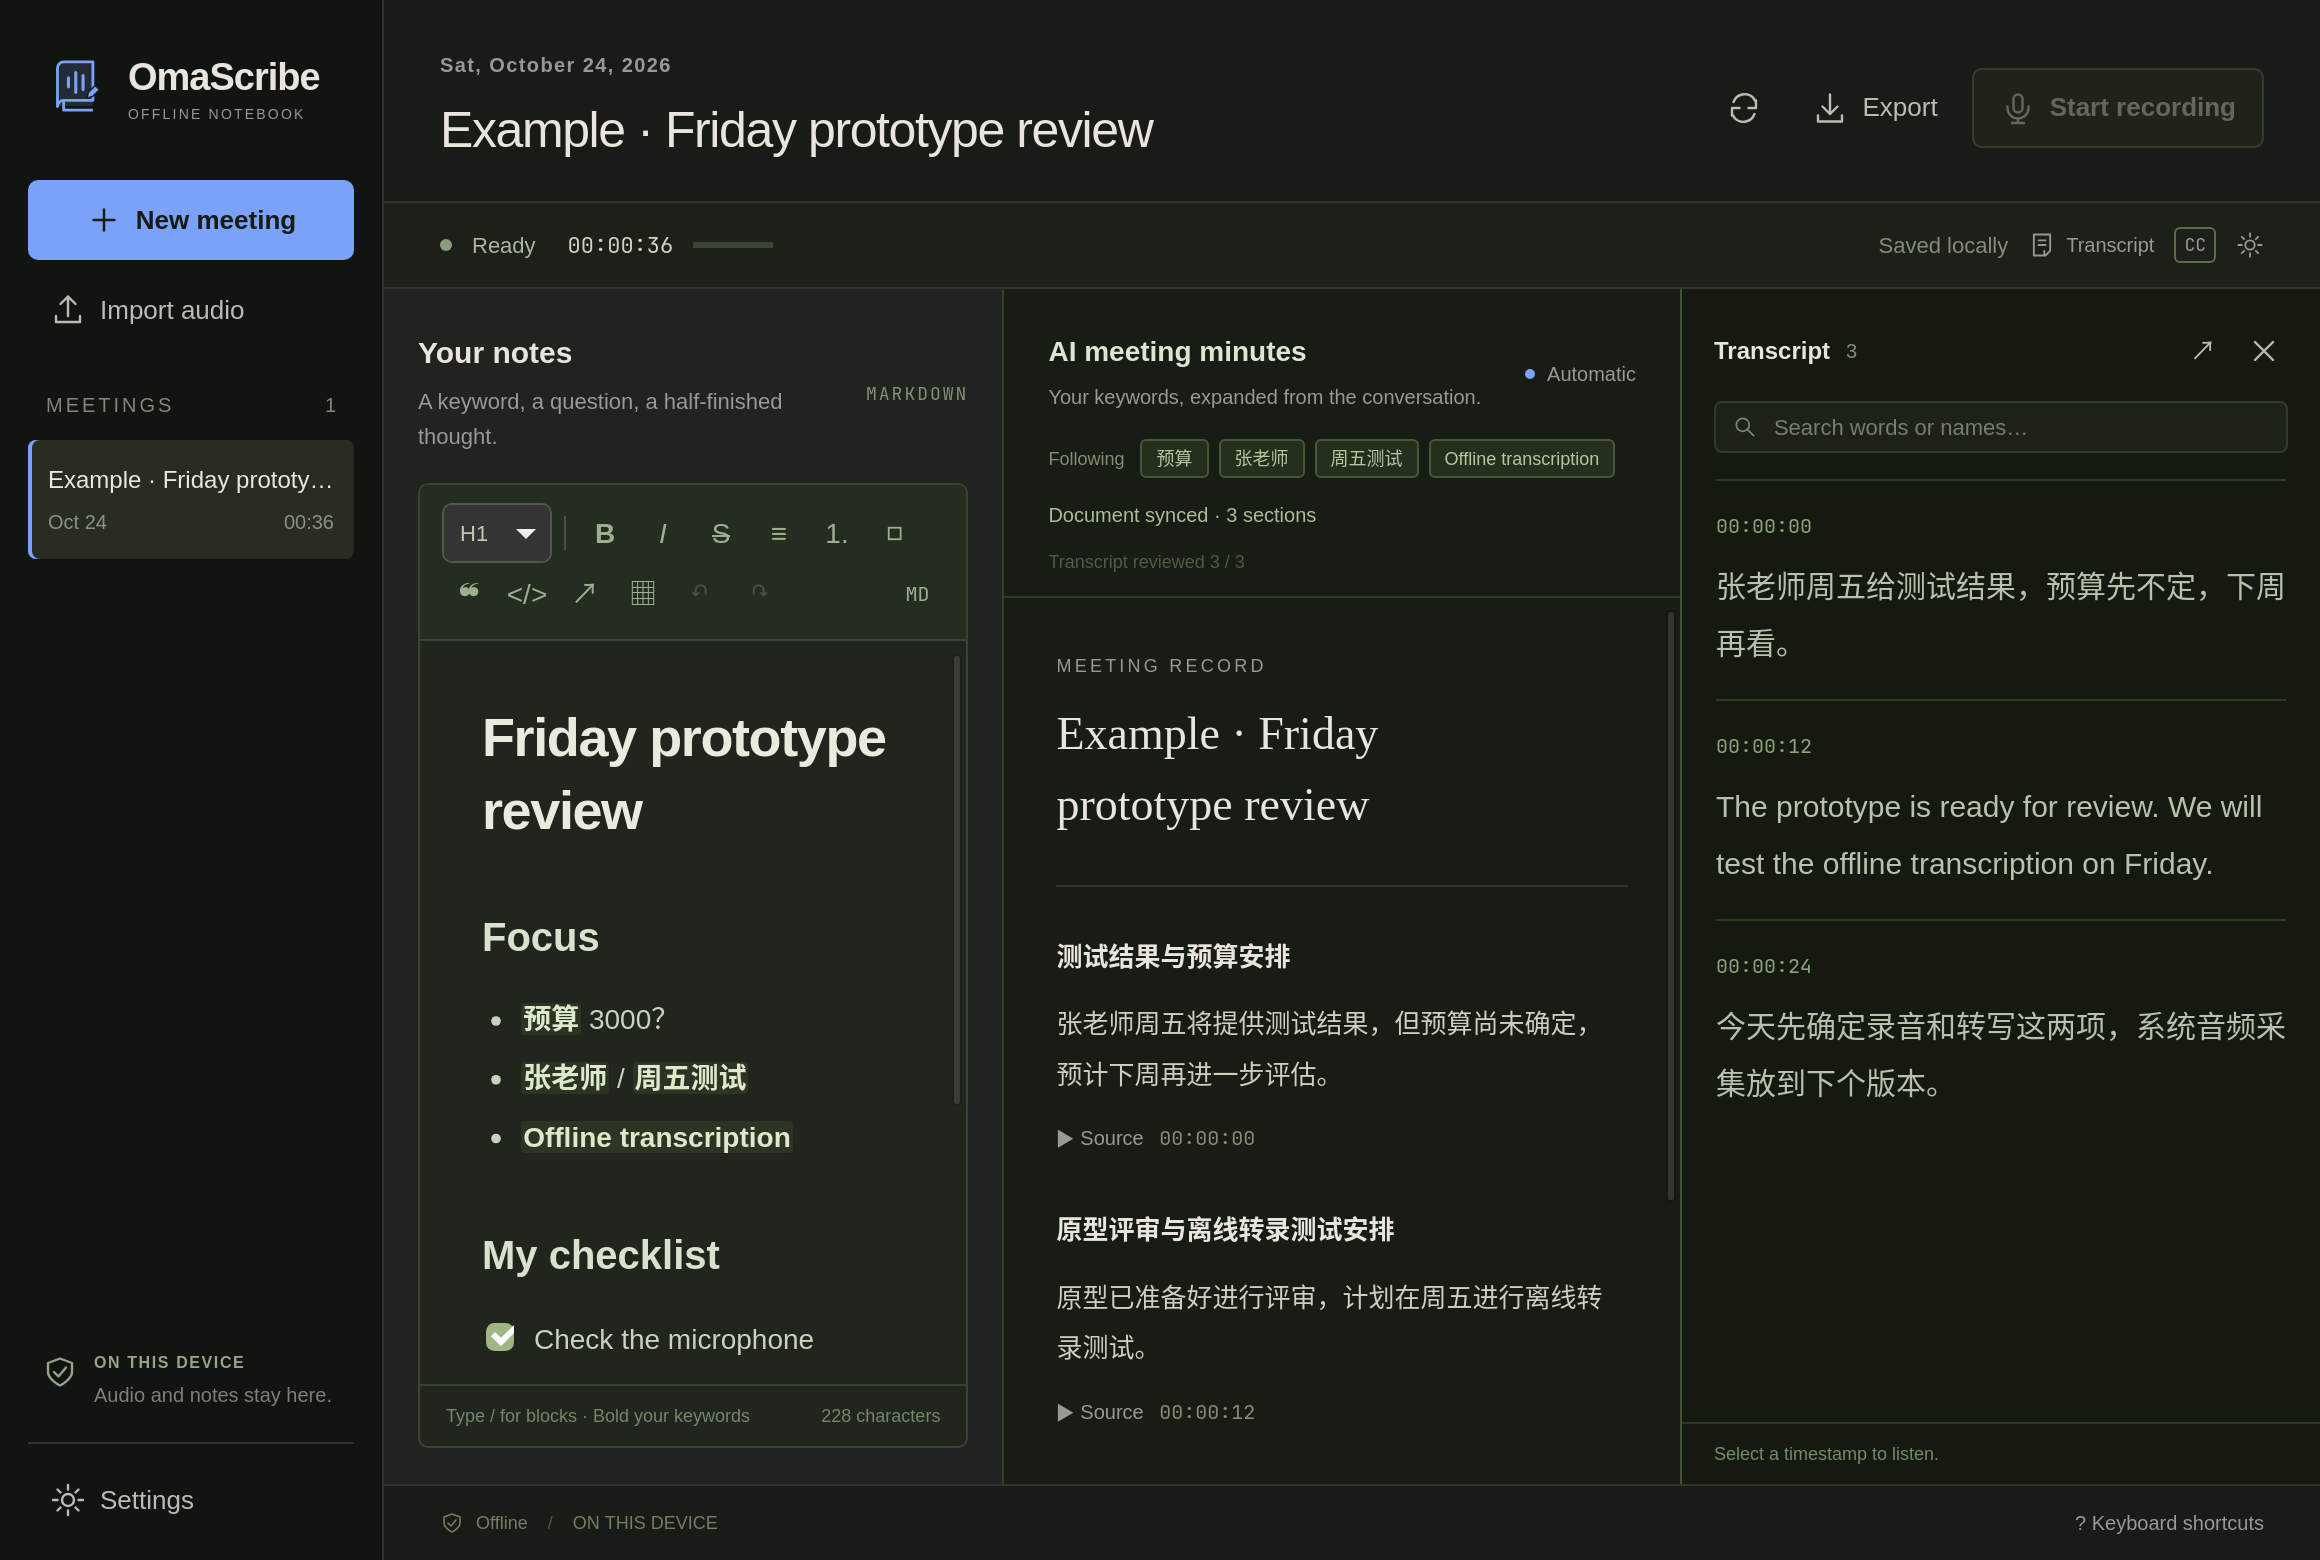
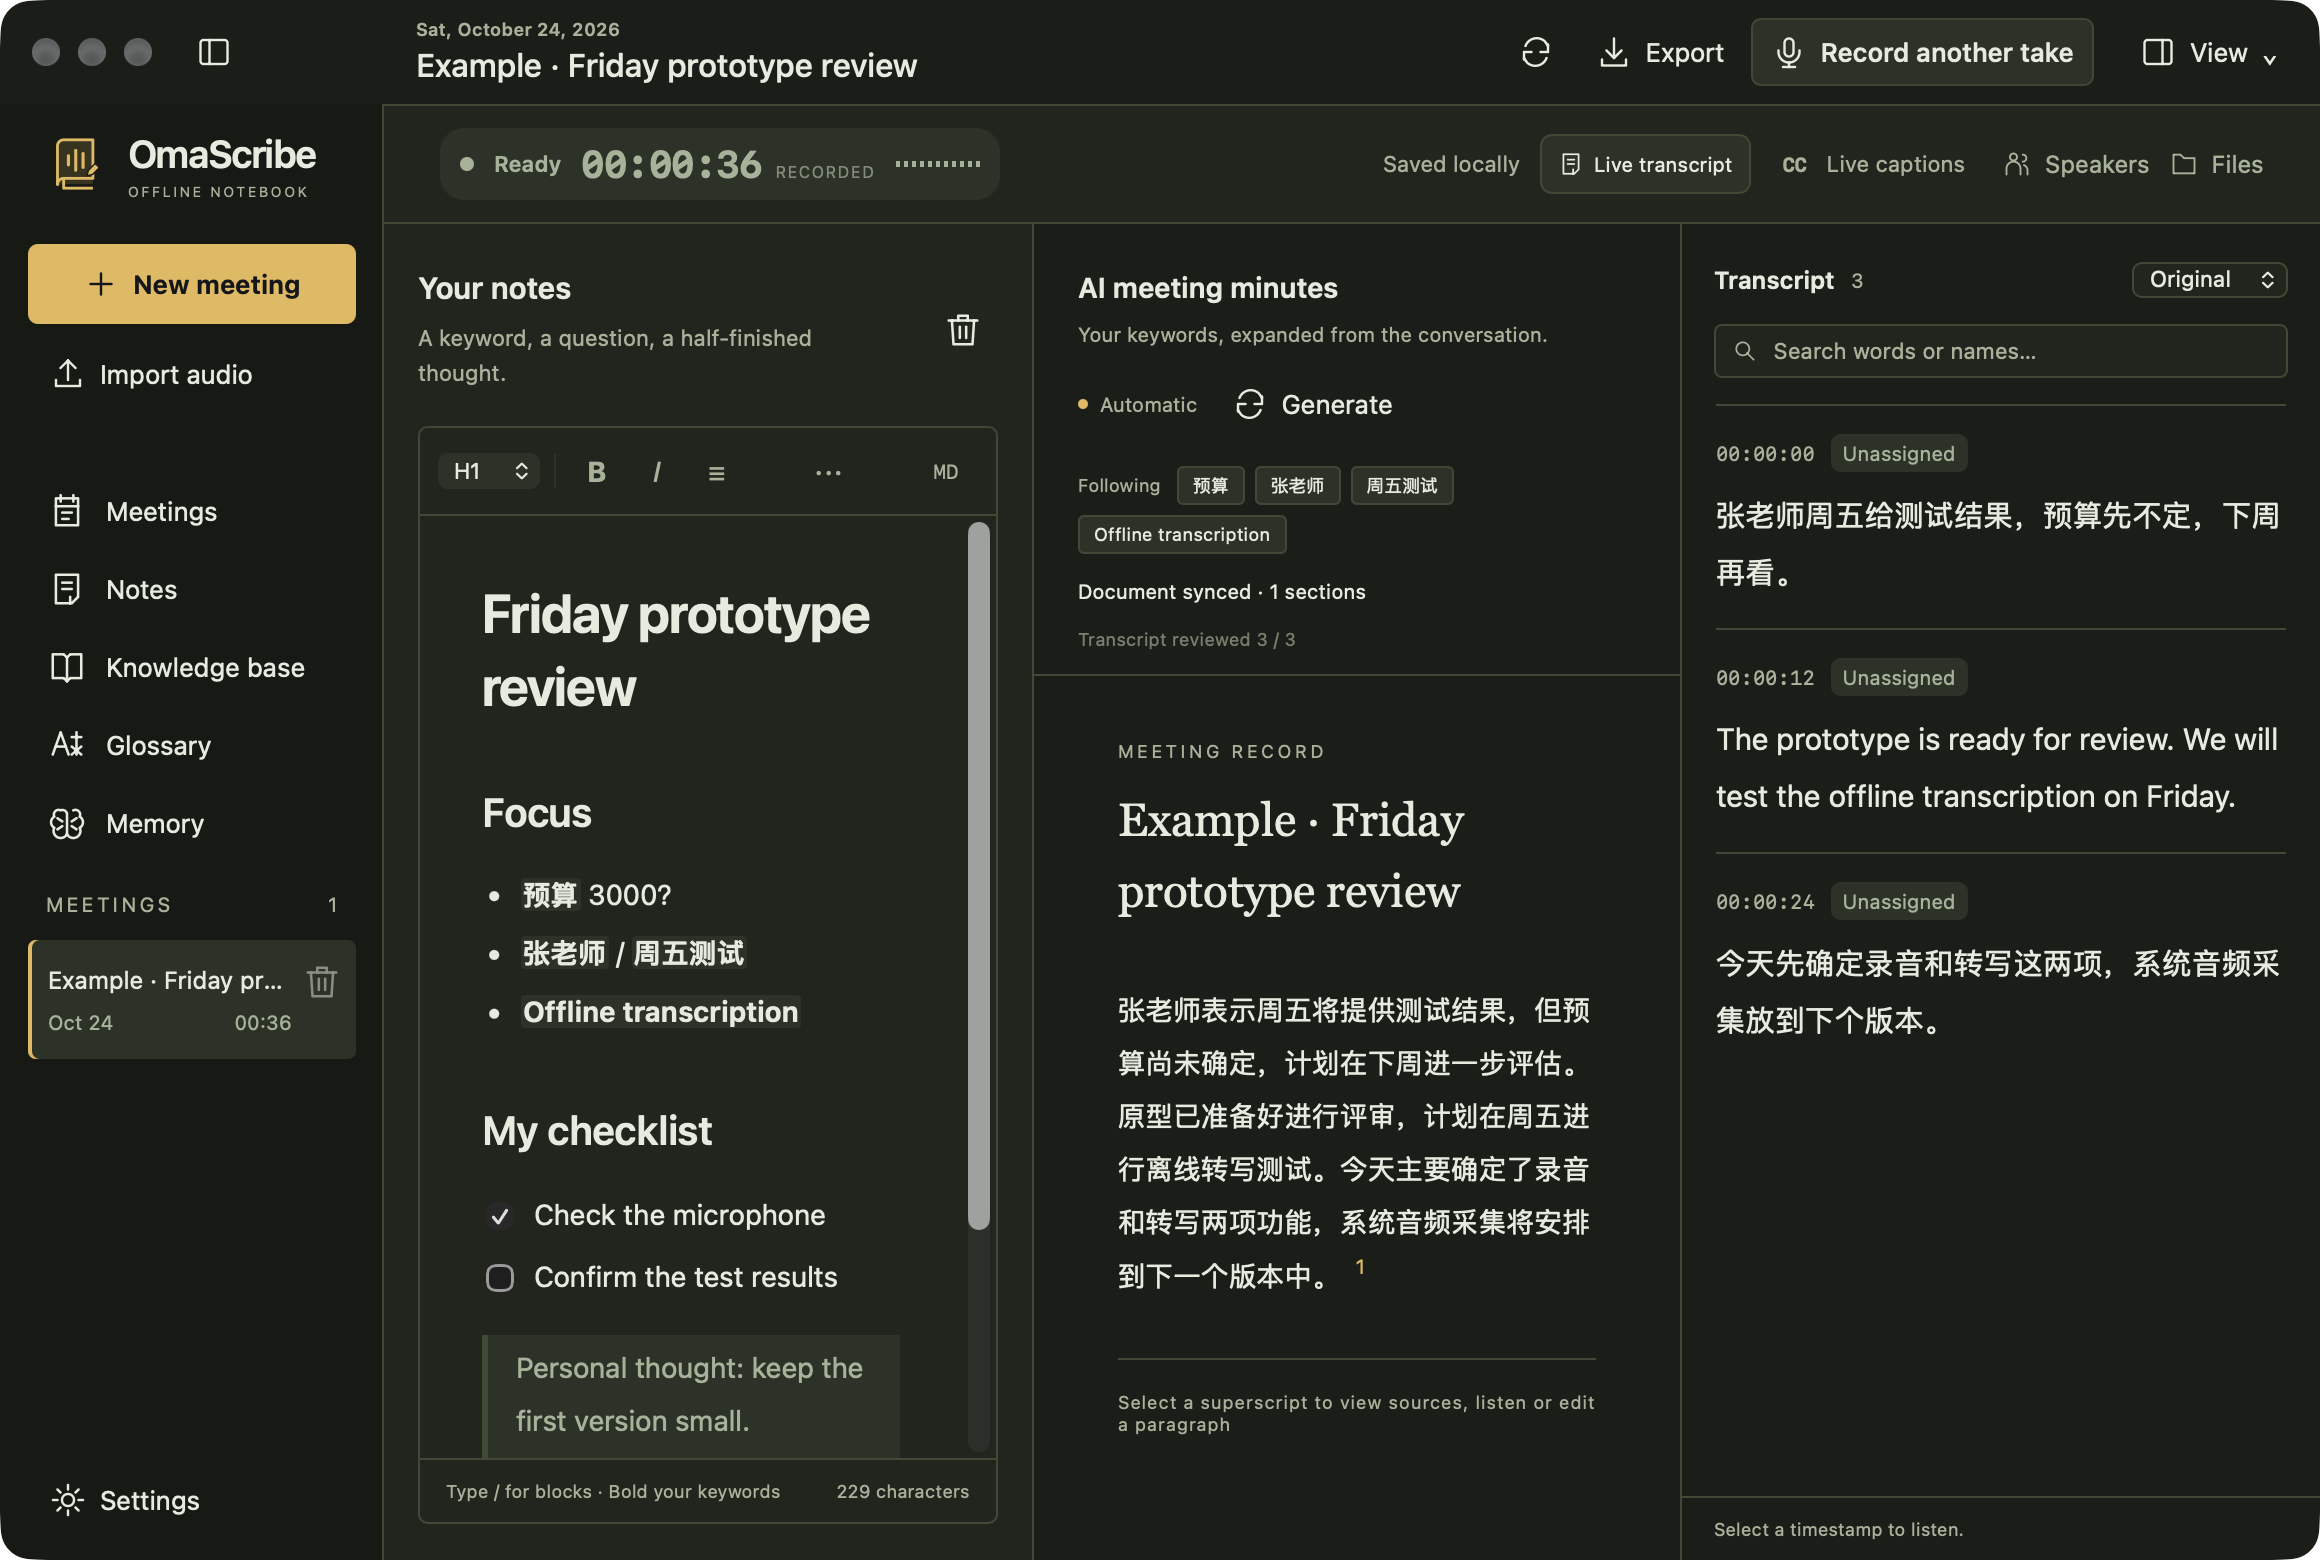
Release 0.3.2 with on-device translation, recoverable deletions and refreshed screenshots
Bumps the version for the first in-app upgrade path from 0.3.1. Regenerates all README screenshots from the current interface (dark theme, integrated session strip, translation selector, recoverable-deletion storage). Fixes a duplicated meeting header left behind when a meeting shell re-rendered while the integrated top bar already held one, and keeps the screenshot harness selectors in sync with the settings page.

diff --git a/src/main.ts b/src/main.ts
@@ -198,7 +198,7 @@ function meetingShell() {
   notebookEditor = null;
   $("#workspace").innerHTML =
     `<header class="meeting-header" data-tauri-drag-region><div class="heading" data-tauri-drag-region><div class="eyebrow" id="meeting-date" data-tauri-drag-region></div><input id="meeting-title" aria-label="Meeting title" maxlength="160" spellcheck="false"></div><div class="header-actions"><button class="subtle square" data-action="retry" title="${t("retry")}" aria-label="${t("retry")}">${icon("refresh")}</button><button class="subtle" data-action="export">${icon("download")}${t("export")}</button><button id="record" class="record" data-action="record">${icon("mic")}${t("record")}</button><button id="pause-recording" class="outline" data-action="pause-recording" hidden>${icon("pause")}${t("pause")}</button><button id="end-recording" class="record active" data-action="stop-recording" hidden>${icon("stop")}${t("finish")}</button></div></header><div class="session-strip"><div class="session-state"><span id="state-dot" class="dot"></span><span id="state-label"></span><div class="recording-clock"><span class="time" id="duration">00:00:00</span><small>${tr("已录制", "RECORDED", "已錄製")}</small></div><div class="recording-wave" aria-hidden="true">${"<i></i>".repeat(11)}</div></div><div class="session-right"><span id="sync">${t("saved")}</span><div class="session-display" role="group" aria-label="${tr("实时显示", "Live views", "即時顯示")}"><button class="text-button transcript-toggle" data-action="toggle-transcript" aria-pressed="false" aria-controls="transcript-content">${icon("note")}<span>${tr("实时转写", "Live transcript", "即時轉寫")}</span></button><button class="text-button caption-toggle" data-action="captions" aria-pressed="false"><span class="view-cc" aria-hidden="true">CC</span><span>${tr("实时字幕", "Live captions", "即時字幕")}</span></button></div><button class="text-button" data-action="speakers" title="${tr("说话人与自动纪要", "Speakers and automatic minutes", "說話人及自動紀要")}">${glyph("speakers")}<span id="speaker-label">${tr("说话人", "Speakers", "說話人")}</span></button><button class="text-button" data-action="meeting-files">${icon("folder")}${t("files")}</button></div></div><div id="error-banner" role="alert" hidden></div><div class="columns"><section class="notebook"><div id="notebook-content" class="pane-content"><div class="section-heading"><div><h2>${t("yourNotes")}</h2><p>${t("notesHint")}</p></div><div class="section-actions"><button class="subtle square" data-action="delete-note" title="${tr("删除笔记", "Delete note", "刪除筆記")}" aria-label="${tr("删除笔记", "Delete note", "刪除筆記")}">${glyph("trash")}</button></div></div><div id="user-notes"></div></div></section><aside class="minutes-pane"><div id="minutes-content" class="pane-content"><div class="minutes-heading"><div class="section-heading"><div><h2>${t("assistant")}</h2><p>${t("assistantHint")}</p></div><div class="section-actions"><span class="auto-indicator"><i></i>${t("automatic")}</span><button id="generate-notes" class="subtle minutes-generate" data-action="generate" title="${t("generate")}" aria-label="${t("generate")}">${icon("refresh")}</button></div></div><div id="focus-context" class="focus-context"></div><div id="notes-progress" class="notes-progress" role="status" hidden></div><div id="coverage" class="coverage"></div></div><div id="suggestions"></div></div></aside><section class="transcript-pane" aria-label="${t("transcript")}"><div id="transcript-content" class="pane-content"><div class="dock-resizer" role="separator" aria-label="${t("panelWidth")}"></div><div class="transcript-heading"><h2>${t("transcript")}<span id="segment-count">0</span></h2>${translationSelect("translation-mode")}<span id="translation-status" class="translation-status" role="status"></span><label class="search">${icon("search")}<input id="search" placeholder="${t("search")}" aria-label="${t("search")}"></label></div><div id="transcript" class="transcript-list"></div><div class="player"><span id="player-label">${t("nothingPlaying")}</span><audio id="player" controls hidden></audio></div></div></section></div>`;
-  $("#window-content").replaceChildren($(".meeting-header"));
+  $("#window-content").replaceChildren($("#workspace > .meeting-header"));
   $("#window-panels").hidden = false;
   transcriptSignature = "";
   noteSignature = "";

diff --git a/tests/native-screenshots.js b/tests/native-screenshots.js
@@ -24,11 +24,15 @@
     await sleep(6000);
     for (const language of ["en", "zh-CN", "zh-TW"]) {
       document.querySelector('[data-action="settings"]').click();
-      await until(() => document.querySelector("#language"));
-      const select = document.querySelector("#language");
+      await until(() => document.querySelector('[data-section="general"]'));
+      document.querySelector('[data-section="general"]').click();
+      await until(() => document.querySelector("#settings-language"));
+      const select = document.querySelector("#settings-language");
       select.value = language;
-      select.dispatchEvent(new Event("change"));
+      select.dispatchEvent(new Event("change", { bubbles: true }));
       await sleep(2000);
+      document.querySelector('[data-settings="back"]').click();
+      await sleep(900);
       await invoke("ui_test_screenshot", { name: "workspace-" + language });
     }
     await invoke("update_meeting", {

diff --git a/tests/native-refinement.js b/tests/native-refinement.js
@@ -60,6 +60,7 @@
   checks.push('Meeting deletion is confirmed and recoverable from Storage');
   document.querySelector('[data-settings="back"]').click();await sleep(1500);
   document.querySelector(`[data-meeting="${m.id}"]`)?.click();await sleep(600);
+  check(document.querySelectorAll('.meeting-header').length===1,'Duplicated meeting header after reopening');
   await invoke('ui_test_resize',{width:740,height:560});await sleep(700);
   for(const selector of ['.transcript-toggle','.caption-toggle','#record']) {const e=document.querySelector(selector),r=e.getBoundingClientRect();check(r.left>=0&&r.right<=innerWidth&&r.top>=0&&r.bottom<=innerHeight,'Control outside narrow viewport: '+selector);check(e.contains(document.elementFromPoint(r.x+r.width/2,r.y+r.height/2)),'Obscured control: '+selector);}
   check(document.documentElement.scrollWidth<=innerWidth,'Outer horizontal overflow');

diff --git a/docs/releases/v0.3.2.md b/docs/releases/v0.3.2.md
@@ -1,0 +1,20 @@
+# OmaScribe 0.3.2
+
+正式版 / Stable release.
+
+- 实时显示新增本地翻译：原文、双语、中译英、英译中四种模式。翻译只在录音与纪要空闲时使用本机模型补上，从不改动原始转写；修改转写后旧译文自动失效重译。
+- 纪要语言独立设置（自动／中文／英文），与界面语言分开；双语字幕始终与同一句原文配对。
+- 删除可恢复：笔记、说话人与会议删除均需确认；会议进入“已删除”，可在设置 → 存储空间恢复，录音与原文保留在本机。
+- 底栏移除，录音计时、音量波形、实时转写与实时字幕开关、说话人和会议文件并入一条会话栏；小窗口（740×560）下控件保持可见可点。
+- 侧栏不再显示隐私提示块；设置页保留隐私与联网说明。
+- 纪要复核新增相对日期引导：模型引用“今天／下周”等相对日期时必须给出对应出处，否则删除时间词，避免小模型反复提交被校验拒绝。
+
+Live display gains on-device translation in four modes (original, bilingual, ZH→EN, EN→ZH); translations run on the local model only while recording and writing are idle, never alter the transcript, and expire when a passage is edited. Minutes language is a separate setting, and bilingual captions stay paired with their source line. Deletions of notes, speakers and meetings are confirmed and recoverable with audio and originals intact. The footer is replaced by one session strip carrying the recording clock, level waveform and live-view toggles, usable down to 740×560. The writer repair pass now steers relative-date citations instead of resubmitting rejected drafts.
+
+## 升级 / Upgrade
+
+**0.3.1 可在设置 → 软件更新中直接升级到 0.3.2（首次应用内升级）。0.3.0 没有更新器，需先手动安装一次。** Debian 系统包通过包管理器更新。
+
+0.3.1 installs can upgrade in-app through Settings → Software updates; this is the first over-the-air upgrade path. 0.3.0 has no updater and needs one manual install. Update requests fetch only public version metadata and signed installers from GitHub. They send no audio, transcripts, notes, private configuration or hardware information. Recording, transcription and AI minutes remain offline. Shared profiles cannot enable update permission. Installation preserves the separate user-data directory.
+
+安装包内置 Zipformer Small、Qwen3 1.7B Q4_K_M 及运行环境。OTA 校验签名与系统发行者签名不同：macOS 仍为临时签名、尚未公证；Windows 仍无发行者证书。其他平台限制见 [安装与验证说明](https://github.com/EazyLee30/omascribe/blob/v0.3.2/docs/NATIVE_TESTING.md)。

diff --git a/docs/NATIVE_TESTING.md b/docs/NATIVE_TESTING.md
@@ -11,7 +11,7 @@ Download the matching installer from [Releases](https://github.com/EazyLee30/oma
 | macOS 11+, Apple Silicon | Open `macOS-AppleSilicon.dmg`; drag OmaScribe into Applications. |
 | macOS 11+, Intel with AVX2 | Open `macOS-Intel.dmg`; drag OmaScribe into Applications. |
 | Windows 10/11, x64 with AVX2 | Run `Windows-x64.exe`; installs for the current user. |
-| Linux x64 with AVX2, Ubuntu 22.04+ or compatible | Install the `.deb` with `sudo apt install ./OmaScribe_0.3.1_Linux-x64.deb`, or make the AppImage executable and launch it. |
+| Linux x64 with AVX2, Ubuntu 22.04+ or compatible | Install the `.deb` with `sudo apt install ./OmaScribe_0.3.2_Linux-x64.deb`, or make the AppImage executable and launch it. |
 
 The Mac app uses an ad-hoc signature and is not notarized. macOS may require **System Settings → Privacy & Security → Open Anyway** for this particular downloaded app. Windows may show SmartScreen because the app has no publisher certificate. Use the application-specific confirmation after checking the repository and filename; do not disable system-wide protection.
 
@@ -51,6 +51,6 @@ Linux CI is a prerequisite for the exact same source commit. The workflow publis
 
 Physical microphone capture, permission dialogs, visual layout, caption behavior across Spaces/monitors, and sustained thermal performance are explicitly outside these hosted-runner checks.
 
-## 0.3.1 update checks
+## 0.3.2 update checks
 
-Verify update consent is off, cancellation works, signatures reject changed bytes and version labels, and active work prevents installation. Upgrade 0.3.0 manually once; test future updates with a genuinely newer signed version. AUR integration is deferred; this release provides AppImage and deb for Linux.
+Verify update consent is off, cancellation works, signatures reject changed bytes and version labels, and active work prevents installation. 0.3.1 installs can upgrade to 0.3.2 through Settings → Software updates; 0.3.0 needs a manual install first. AUR integration is deferred; this release provides AppImage and deb for Linux.

diff --git a/packaging/aur/README.md b/packaging/aur/README.md
@@ -2,4 +2,4 @@
 
 These files are an unvalidated draft retained for later work. AUR integration is deferred at the maintainer’s request while account registration is unavailable.
 
-Version 0.3.1 does not build, publish or advertise an Arch package. Use the released AppImage or deb on supported Linux systems.
+Version 0.3.2 does not build, publish or advertise an Arch package. Use the released AppImage or deb on supported Linux systems.
